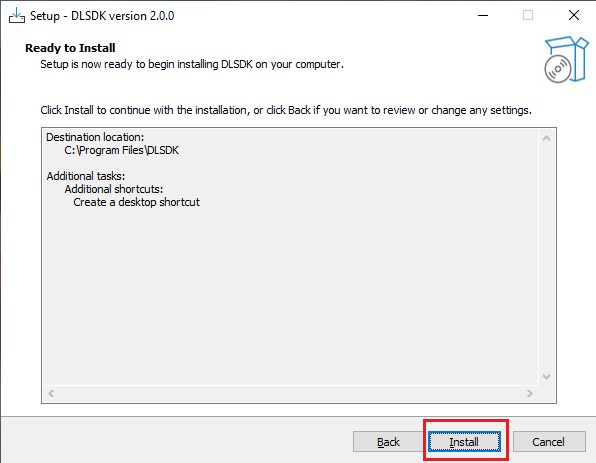
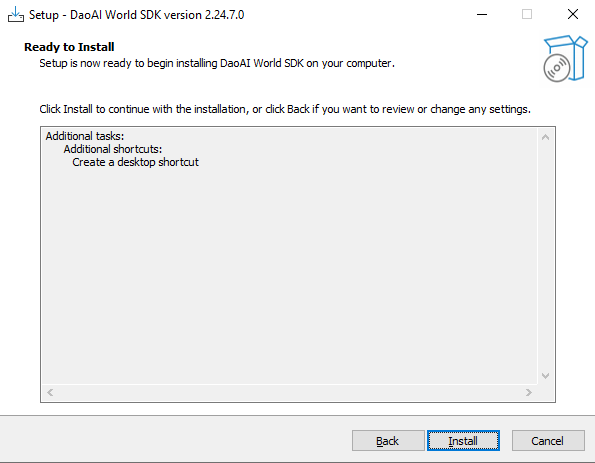
update path

diff --git a/docs/source/develop/index.rst b/docs/source/develop/index.rst
@@ -42,14 +42,12 @@ DaoAI World SDK 支持CPU模式和GPU模式。尽管您没有GPU 也可以使用
     .. image:: images/dlsk_installer_unzip.png
             :scale: 80%
 
-    .. note:: 
+    .. note::
+
         DW_SDK 安装包需要磁盘中存在6.7GB以上的空间。
 
-    - 选择DW_SDK文件的安装目录，默认路径为： ``C:\Program Files\DW_SDK`` 。
+    - 打开安装程序，安装的路径为： ``C:\Program Files\DaoAI World SDK`` 。
 
-    .. image:: images/dlsk_installer_path.png
-            :scale: 80%   
-    
     - 选择 ``创建桌面快捷方式``，以便直接管理SDK的软件许可证。
 
     .. image:: images/dlsk_installer_desktop_shortcut.png
@@ -148,7 +146,7 @@ DW_SDK 安装包会自动建立 DW_SDK 所需的系统环境变量： ``DWSDK_PA
             :scale: 80%  
 
 
-    **C++** 和 **C#** 的SDK安装包在安装后的安装目录下 包含有SDK以及SDK的示例项目。
+    **C++** 和 **C#** 的SDK安装包在安装后的安装目录下的 DWSDK 文件夹内包含有SDK以及SDK的示例项目。
 
         .. image:: images/install_folder.png
             :scale: 100%
